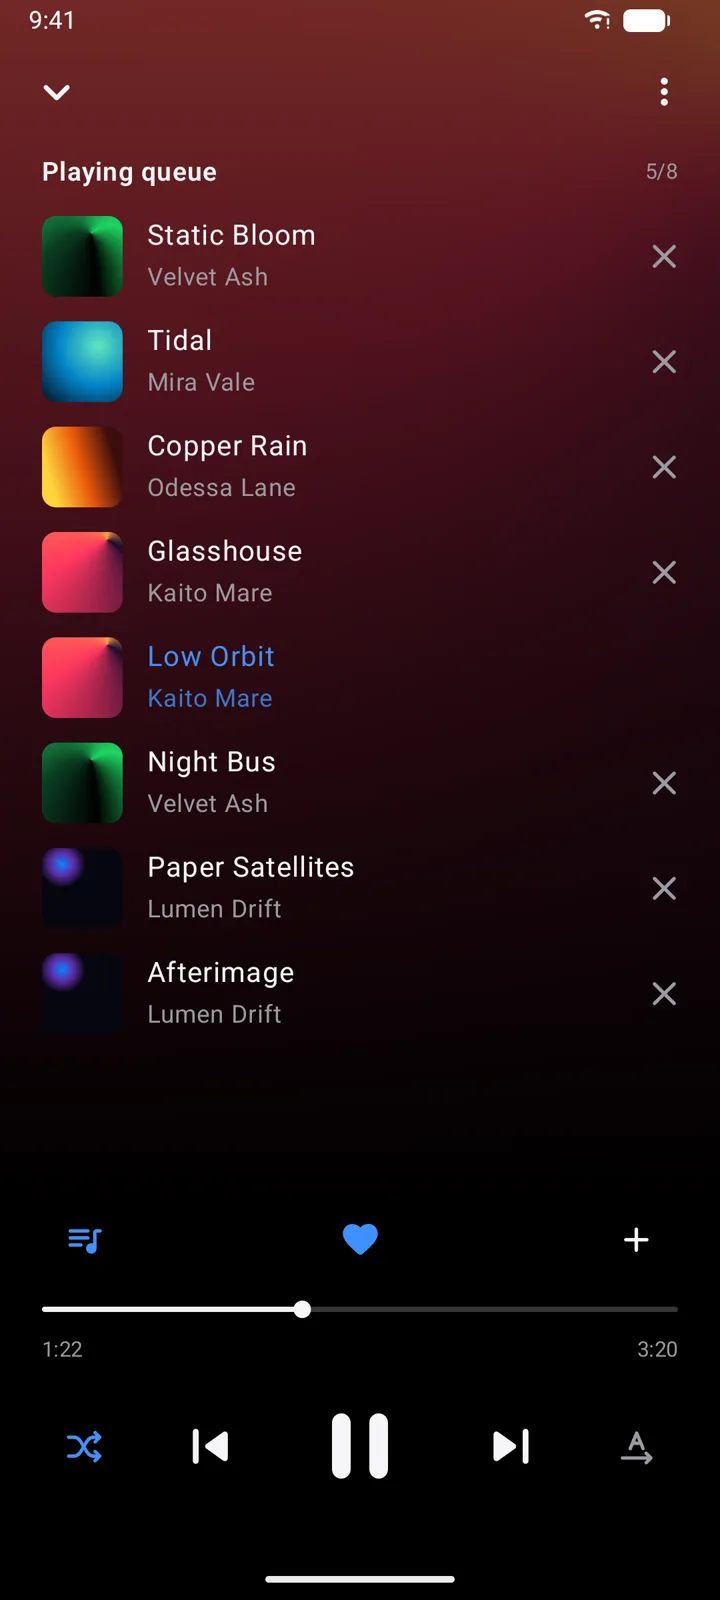
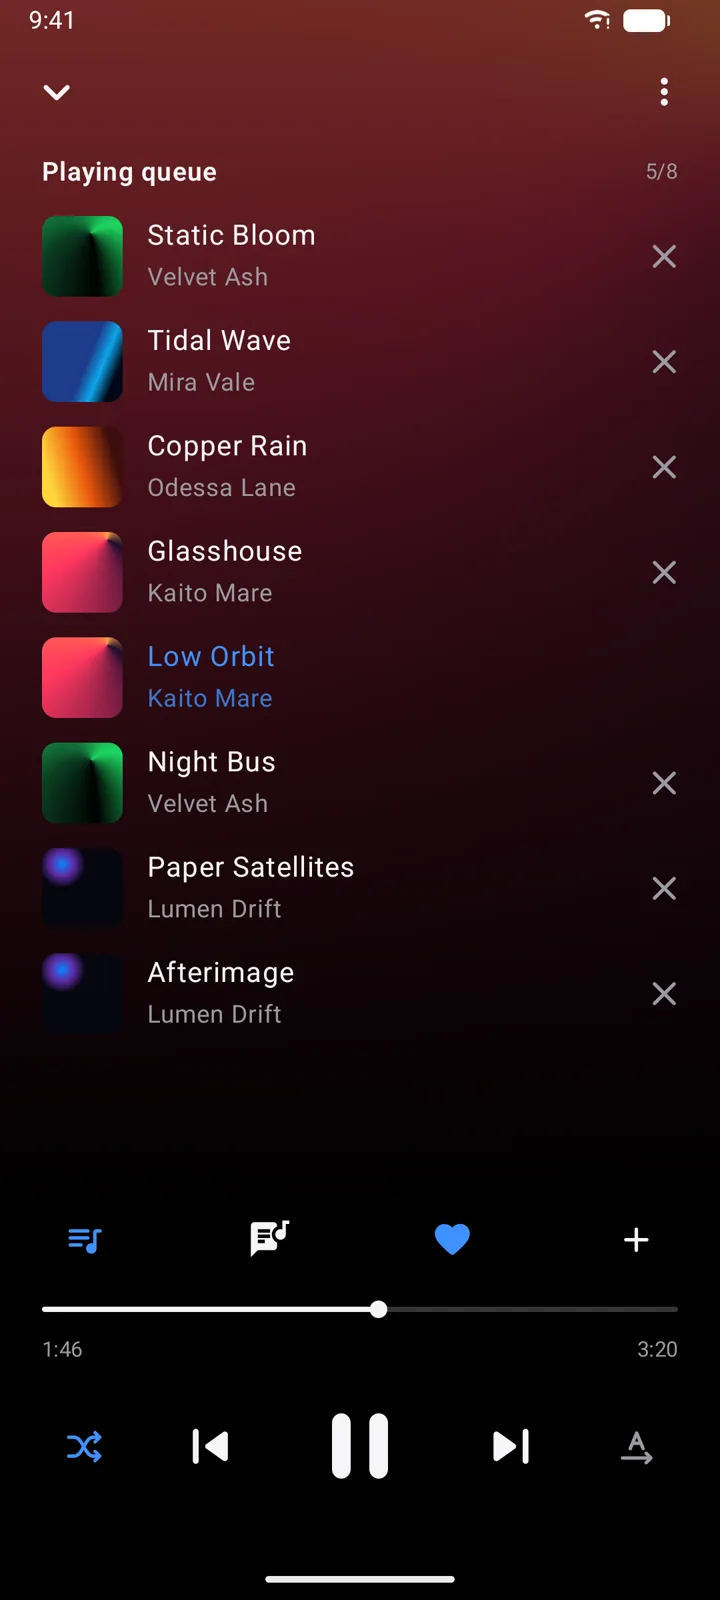
README: Huawei Music homage line, new features, retaken screenshots

diff --git a/README.md b/README.md
@@ -1,12 +1,15 @@
 <p align="center"><img src="docs/icon.png" width="120" alt="MU51C app icon" /></p>
 <h1 align="center">MU51C</h1>
 
+<p align="center"><i>A Huawei Music homage, with a bit of One UI.</i></p>
+
 **An offline music player for Android.** It plays the music already on your phone, with no account, no
 internet permission and no tracking.
 
-It started as a personal replacement for the stock player on a Galaxy phone, built to use almost no battery and
-to look like its own thing: themes on true black (or white), a player you drag up with your finger, a home
-screen widget, and play counts kept on the device.
+It started as a personal replacement for the stock player on a Galaxy phone. It takes its player and lyrics
+from Huawei Music, and borrows a few details from Samsung's One UI: the centered tabs, the sort menus and the
+page transitions. Built to use almost no battery, with themes on true black (or white), a player you drag up
+with your finger, and play counts kept on the device.
 
 `Kotlin · Jetpack Compose · Material 3` · `AndroidX Media3 (ExoPlayer + MediaSession)` · `Room · DataStore` ·
 `Coil 3 · Haze` · `GitHub Actions release`
@@ -32,8 +35,15 @@ screen widget, and play counts kept on the device.
 - **Endless play**: when the queue runs out, more tracks from your library follow, so the music never stops on a
   long drive. It works with shuffle too, and can be turned off.
 - **Hold gestures**: hold play to hear the track up to three more times; hold next or back to skip through it.
+- **Lyrics**: swipe the cover in the player to see them. Synced lyrics light up line by line and follow the
+  song; tap a line to jump there. They come from the music file or from .lrc files in a folder you pick, with no
+  downloading.
 - **Track menus**: a long press lifts the track and opens a quick menu; the ⋯ button opens the full one, with
-  track details and a search on Google or YouTube.
+  track details, a search on Google or YouTube, and **Edit track info** (title, artist, album, cover, lyrics),
+  saved into the file itself.
+- **Playlists** with their own covers, a heart for favorites, drag-to-reorder, a home screen shortcut, and cards
+  for recently added, most played and recently played.
+- **Search** with recent searches and voice input, grouped into tracks, artists and albums.
 - **Pick several tracks** to play, add to a playlist, share or delete them at once.
 - **Themes**: Blue, Black, Green, White, or colors taken from your own wallpaper, with an accent color on top.
 - **Wallpaper preview**: a picked picture opens behind the real library before anything is saved. Zoom out to
